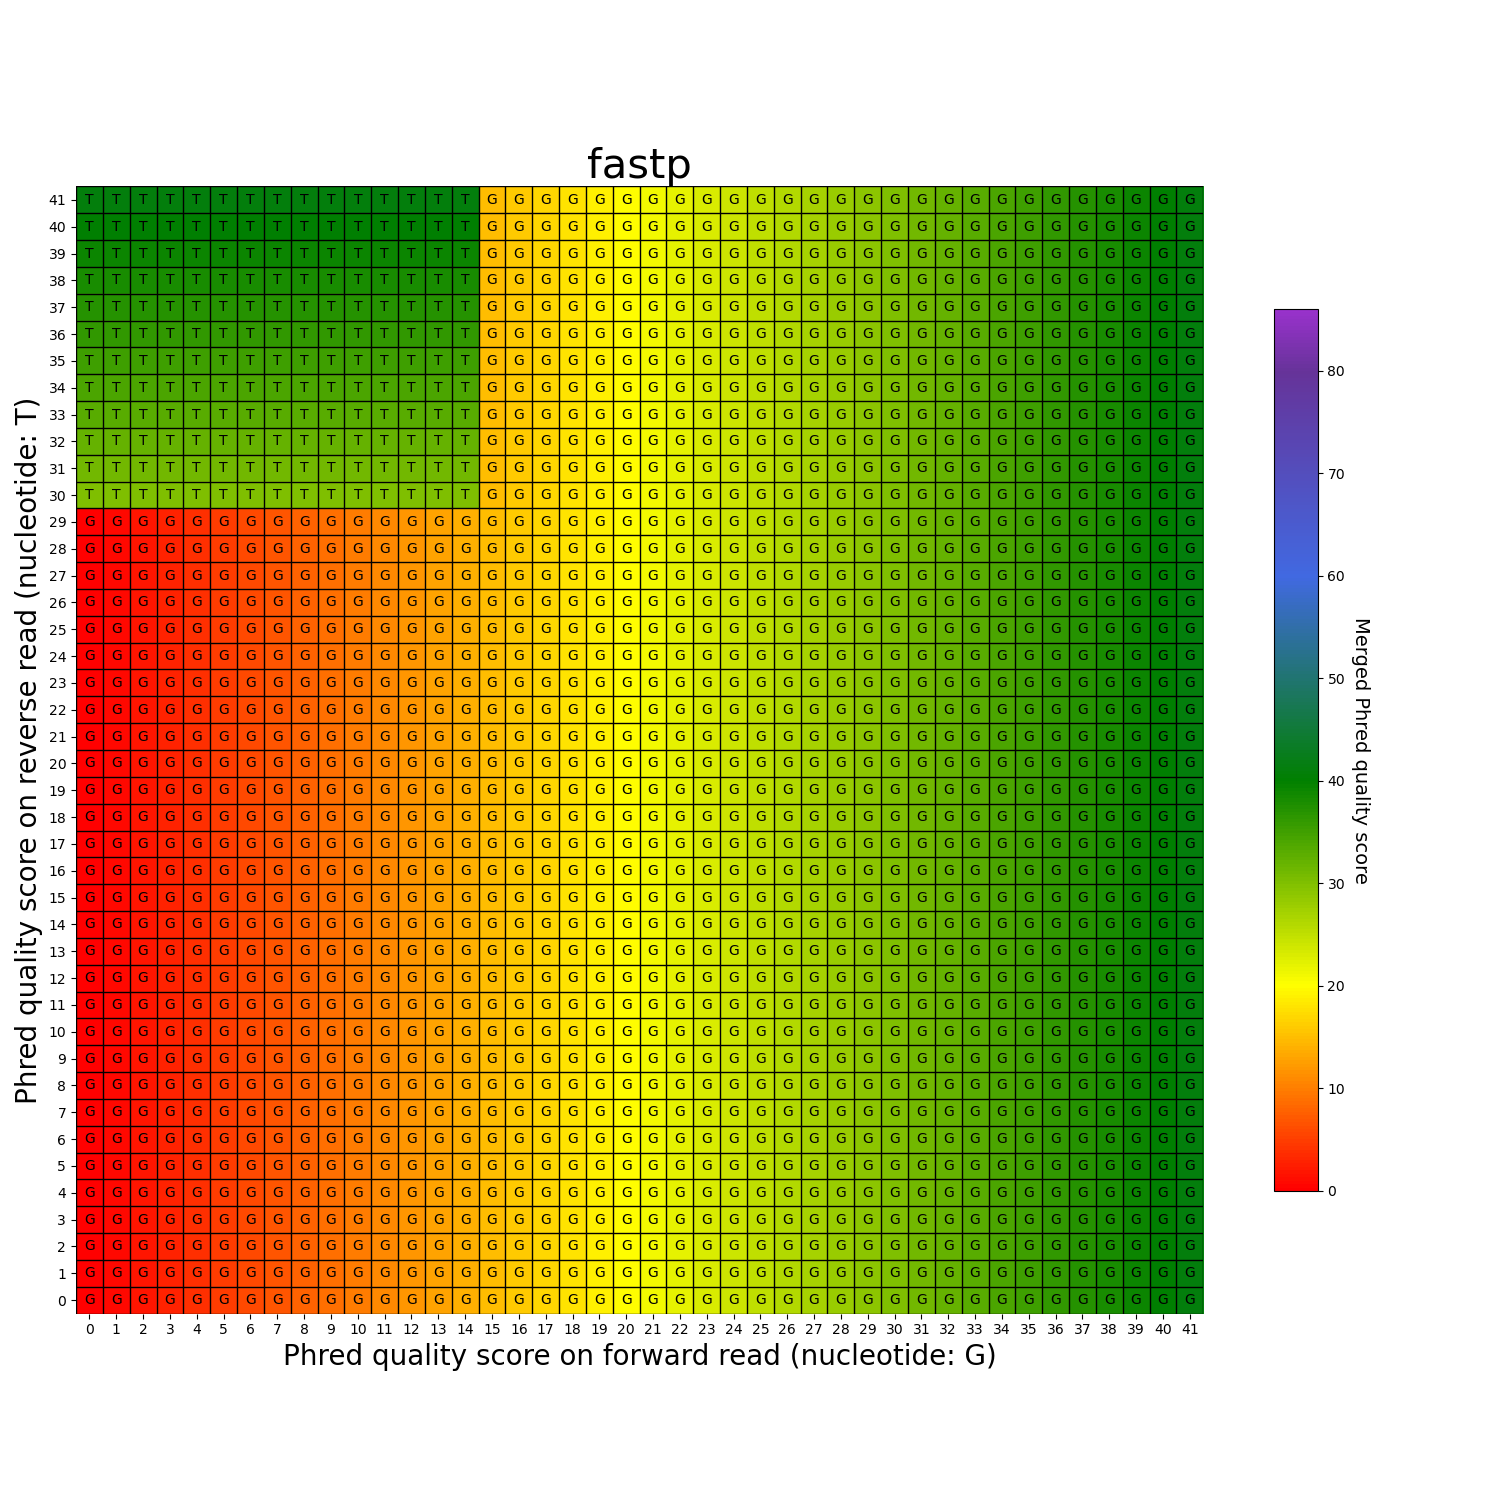
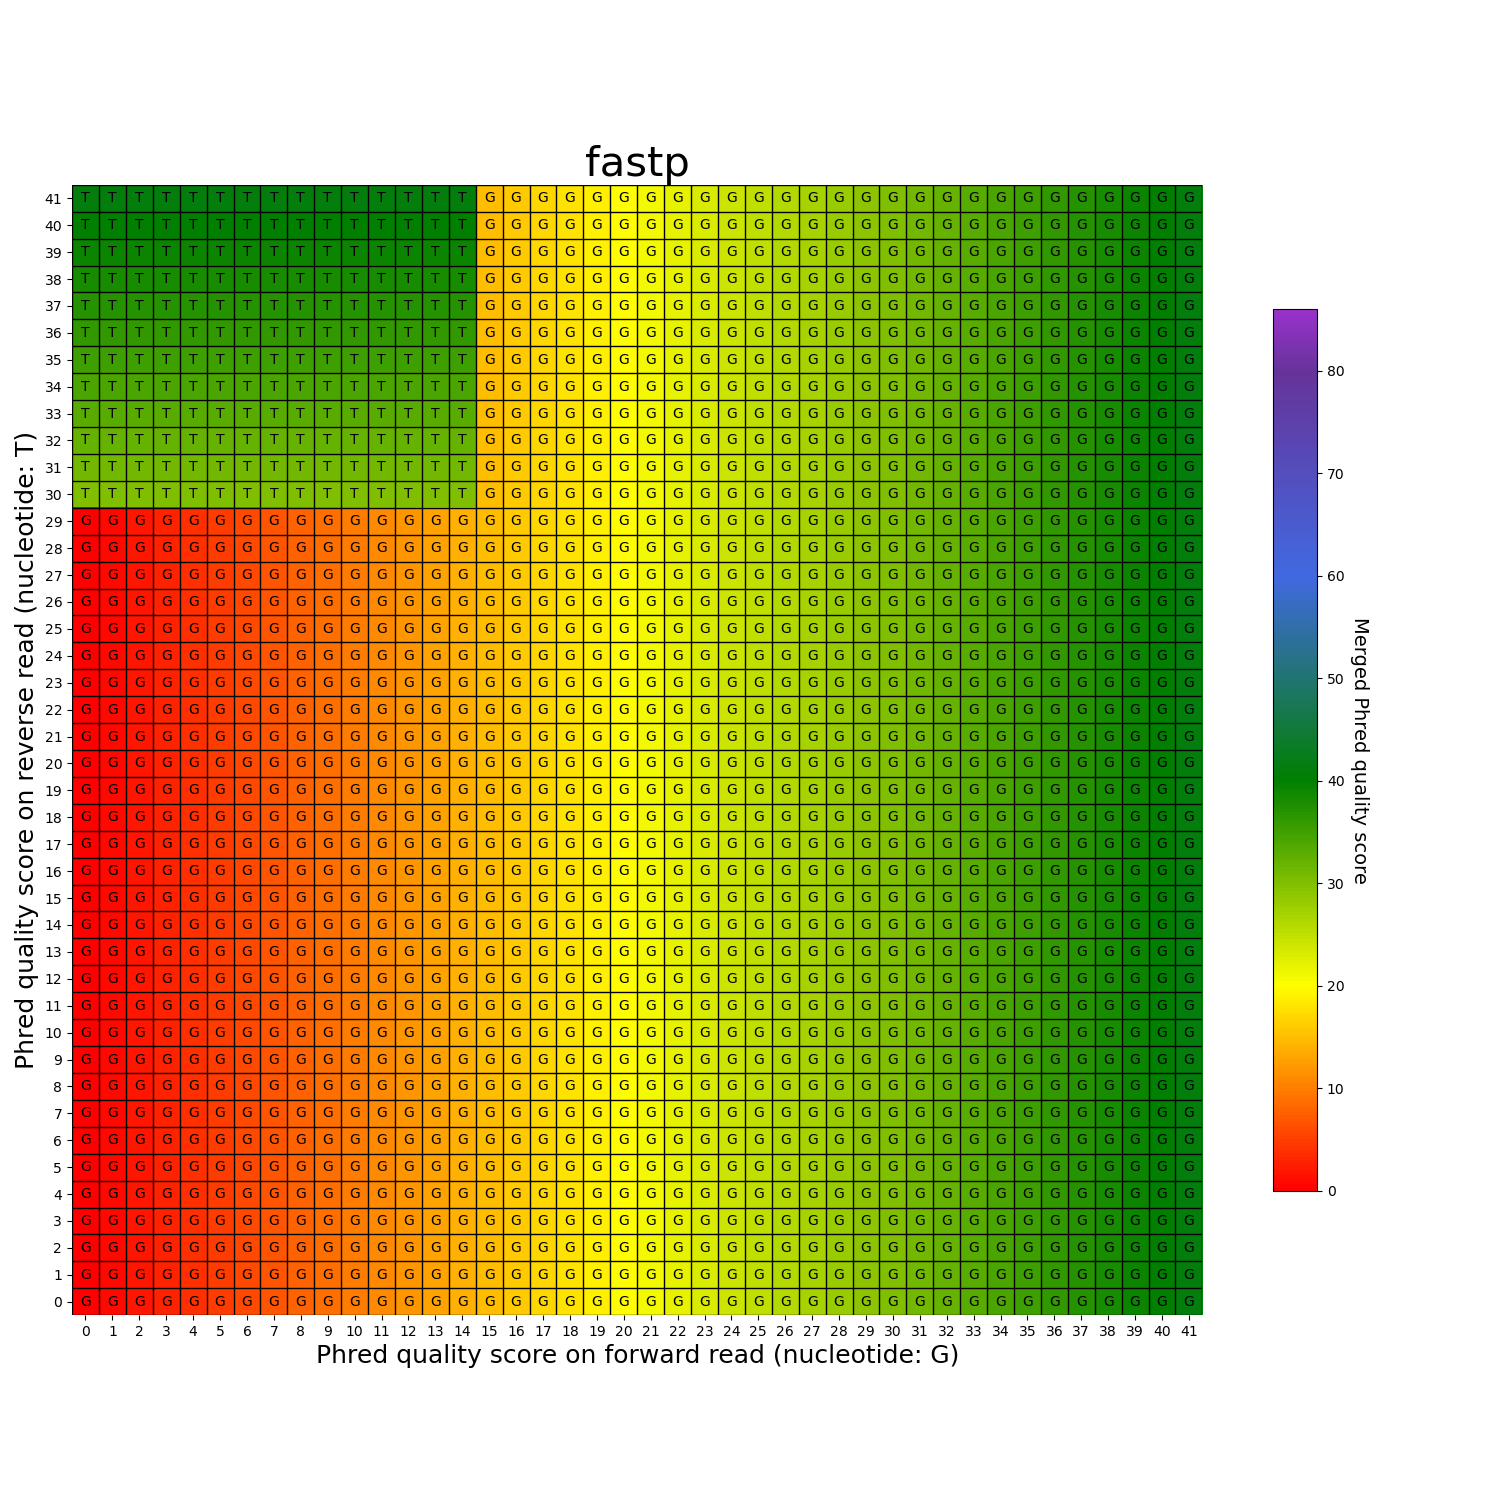
optimized fontsize of axis labels

Changed region(s): [[0.0, 0.092, 0.7973, 0.92], [0.8893, 0.4293, 0.92, 0.46]]

diff --git a/per-base_merging_behavior/plot.py b/per-base_merging_behavior/plot.py
@@ -184,15 +184,15 @@ def create_plots(df_type, program, match_type, max_new_qs, outdir):
     # Add titel and axes labels
     ax.set_title(f"{program}", fontsize=30)
     if match_type == "match":
-        ax.set_xlabel(f"Phred quality score on forward read", fontsize=14)
-        ax.set_ylabel(f"Phred quality score on reverse read", fontsize=14)
+        ax.set_xlabel(f"Phred quality score on forward read", fontsize=18)
+        ax.set_ylabel(f"Phred quality score on reverse read", fontsize=18)
     else:
         nt1 = list(df_type["nt1"])[0]
         nt2 = list(df_type["nt2"])[0]
         ax.set_xlabel(f"Phred quality score on forward read (nucleotide: {nt1})", 
-                      fontsize=20)
+                      fontsize=18)
         ax.set_ylabel(f"Phred quality score on reverse read (nucleotide: {nt2})", 
-                      fontsize=20)
+                      fontsize=18)
 
     # Add the new nucletide as annotation
     if match_type == "mismatch":
